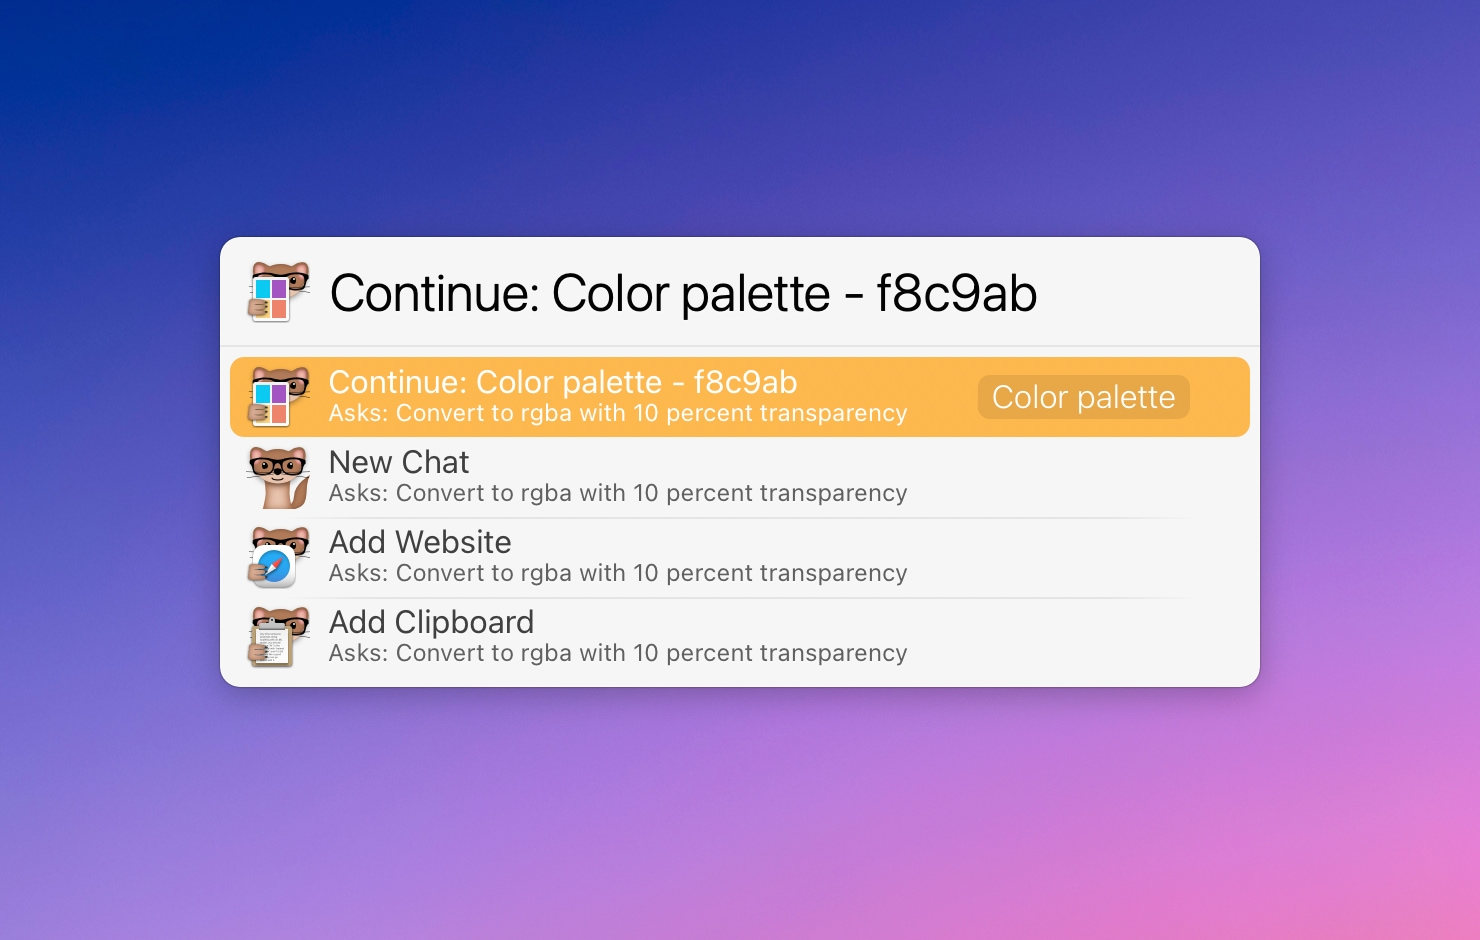
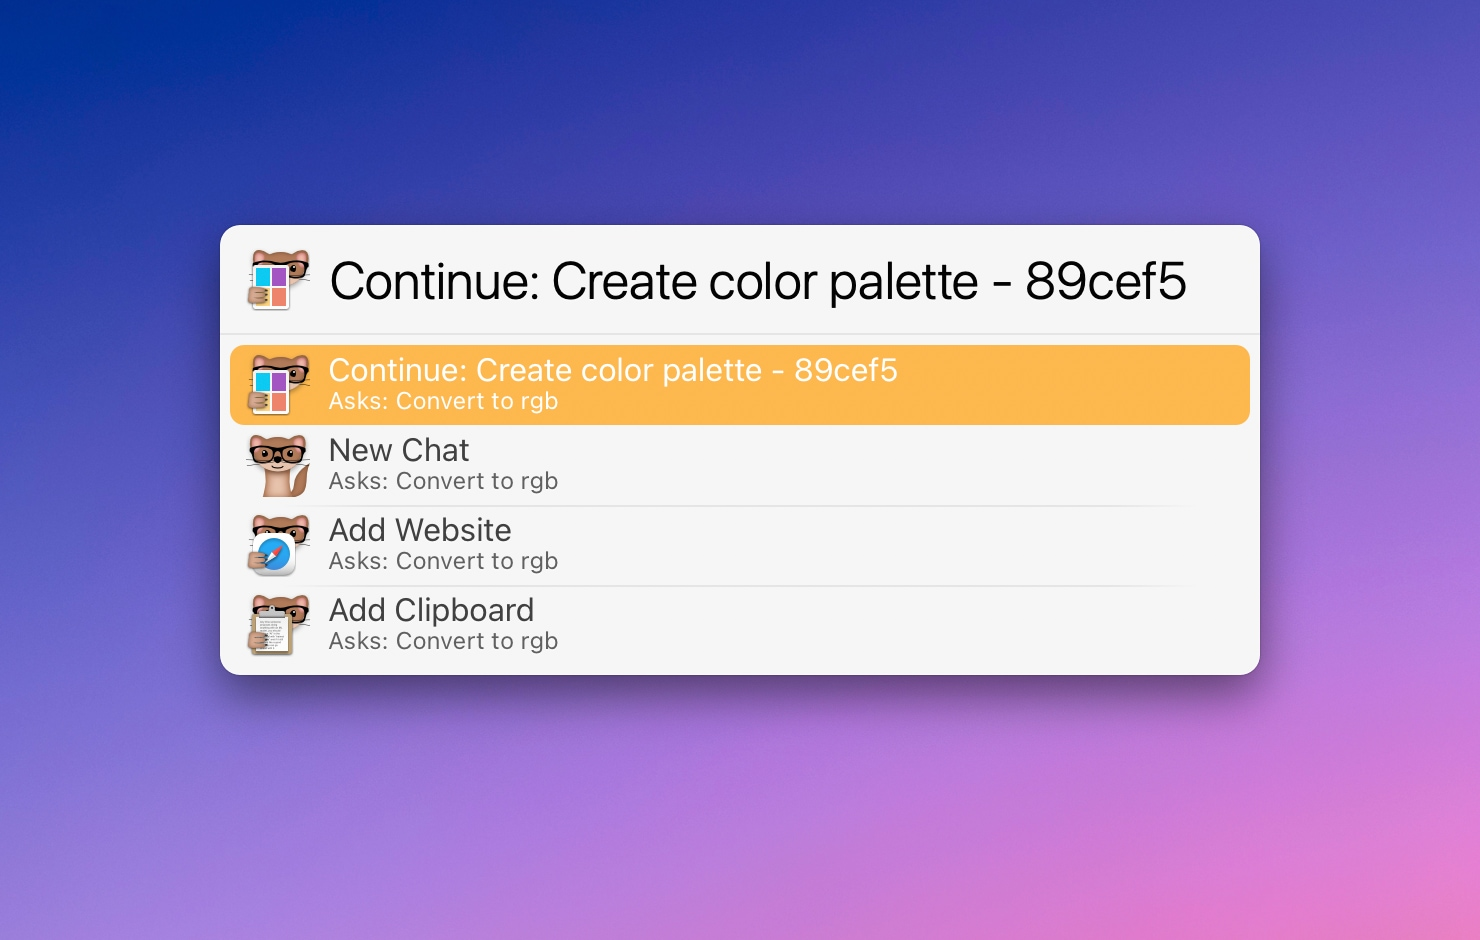
2.1.1
- reduced time within which the continue option is placed on top of the list to 5 minutes (before 10)
- doesn't show a badge anymore for prompts in the list item that offers to continue the previous chat. (When a non-default persona was used in the recent chat it makes sense to show the persona in the badge. This is not necessary for prompts since the prompt title is already displayed in the list item title)

diff --git a/Ask-ChatGPT/AskChatGPT.lbaction/Contents/Scripts/default.js b/Ask-ChatGPT/AskChatGPT.lbaction/Contents/Scripts/default.js
@@ -191,6 +191,7 @@ function options(dict) {
         recentPath: recent.path,
         recentFileTitle: recentFileTitle,
         persona: recent.persona ?? undefined,
+        isPrompt: recent.isPrompt,
       },
       actionRunsInBackground: true,
     };
@@ -200,7 +201,7 @@ function options(dict) {
       Action.preferences.defaultPersonaTitle ??
       File.readJSON(userPresetsPath).personas[0].title; // default
 
-    if (recentBadge != defaultPersonaTitle) {
+    if (recentBadge != defaultPersonaTitle && recent.isPrompt != true) {
       pushData.badge = recentBadge;
     }
 
@@ -208,7 +209,7 @@ function options(dict) {
 
     // Reverse order if recent was created less than five minutes ago
     const timeDifference = (new Date() - new Date(recentTimeStamp)) / 60000;
-    if (timeDifference < 10) {
+    if (timeDifference < 5) {
       result.reverse();
     }
   }
@@ -373,10 +374,20 @@ function ask(dict) {
 
   var icon = dict.icon; // might need fallback(s) to default
 
-  processResult(result, argument, title, persona, icon, presetTitle);
+  var isPrompt = dict.isPrompt;
+
+  processResult(result, argument, title, persona, icon, presetTitle, isPrompt);
 }
 
-function processResult(result, argument, title, persona, icon, presetTitle) {
+function processResult(
+  result,
+  argument,
+  title,
+  persona,
+  icon,
+  presetTitle,
+  isPrompt
+) {
   // ERROR HANDLING
   if (result.response == undefined) {
     alertWhenRunningInBackground(result.error);
@@ -436,6 +447,7 @@ function processResult(result, argument, title, persona, icon, presetTitle) {
     presetTitle: presetTitle,
     icon: icon,
     path: fileLocation,
+    isPrompt: isPrompt,
   };
 
   // PLAY SOUND AND OPEN FILE
